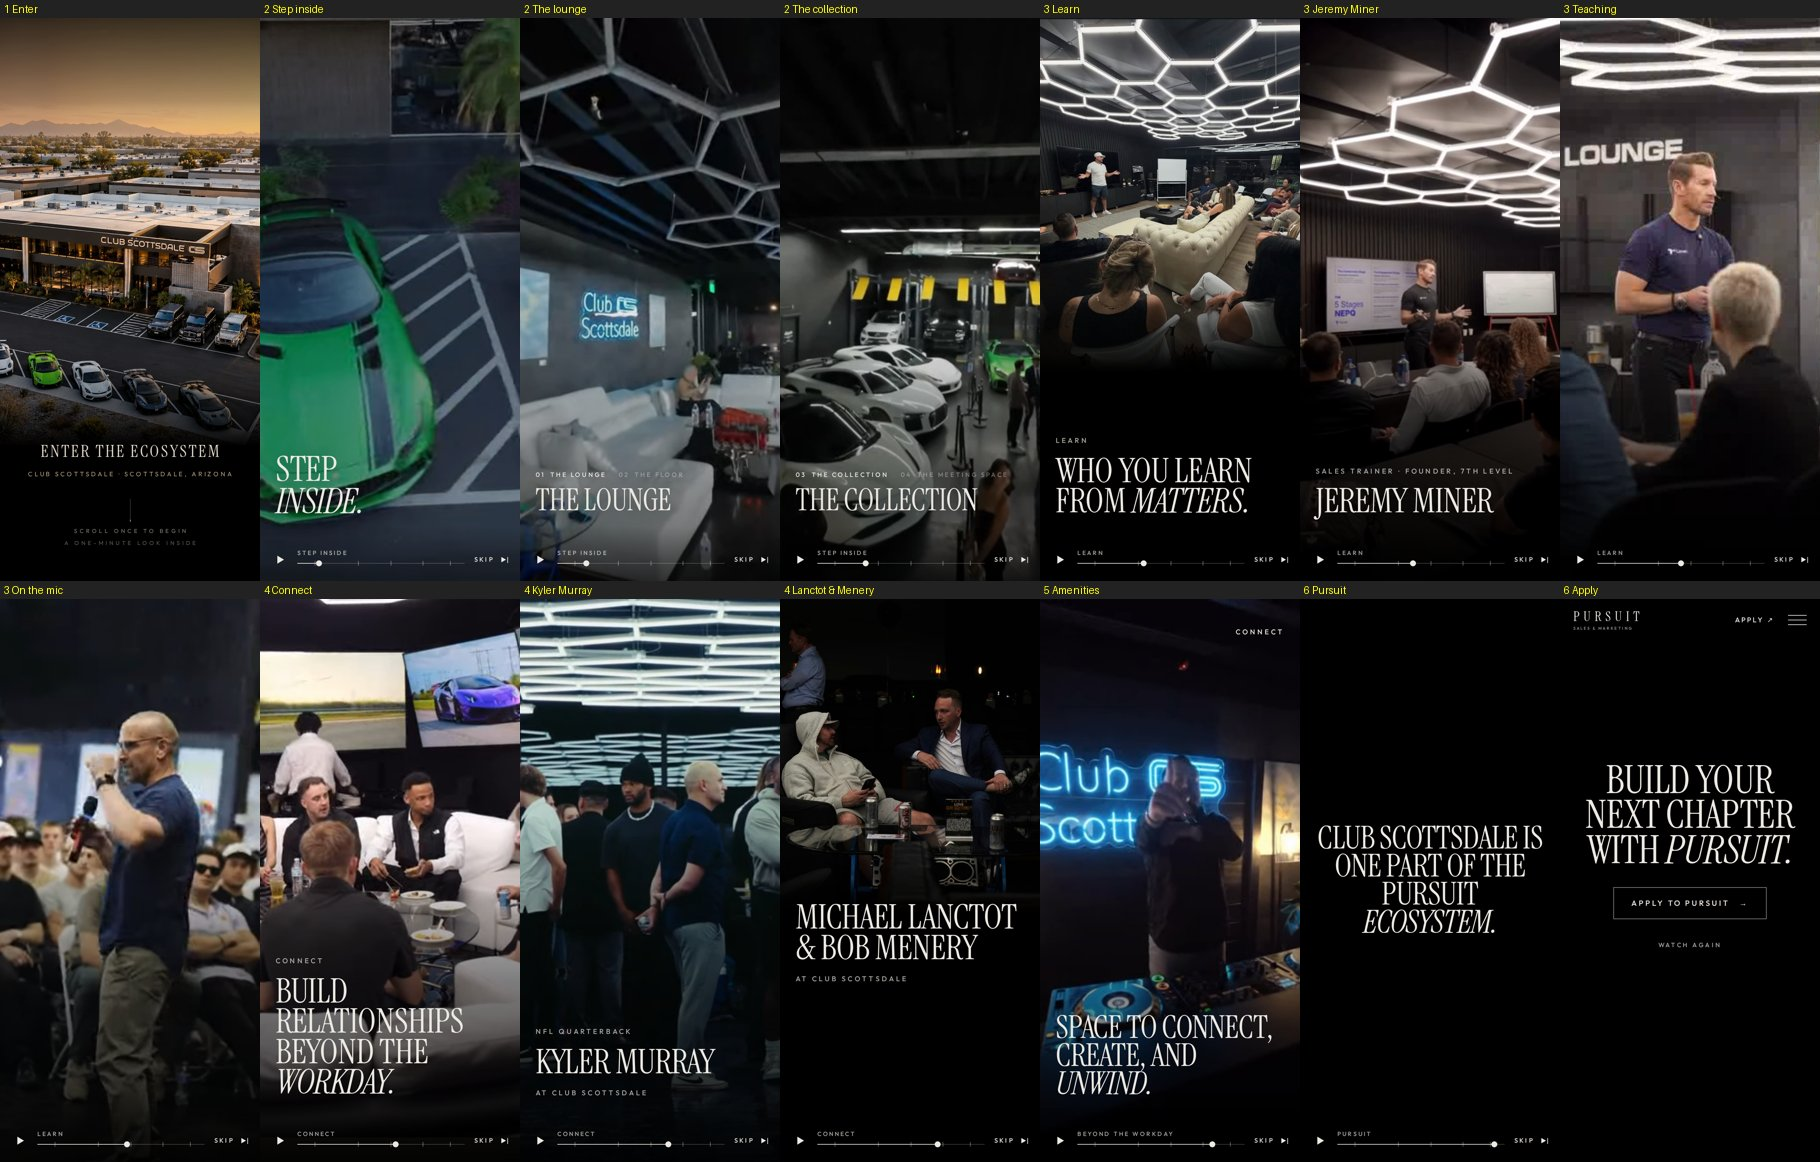
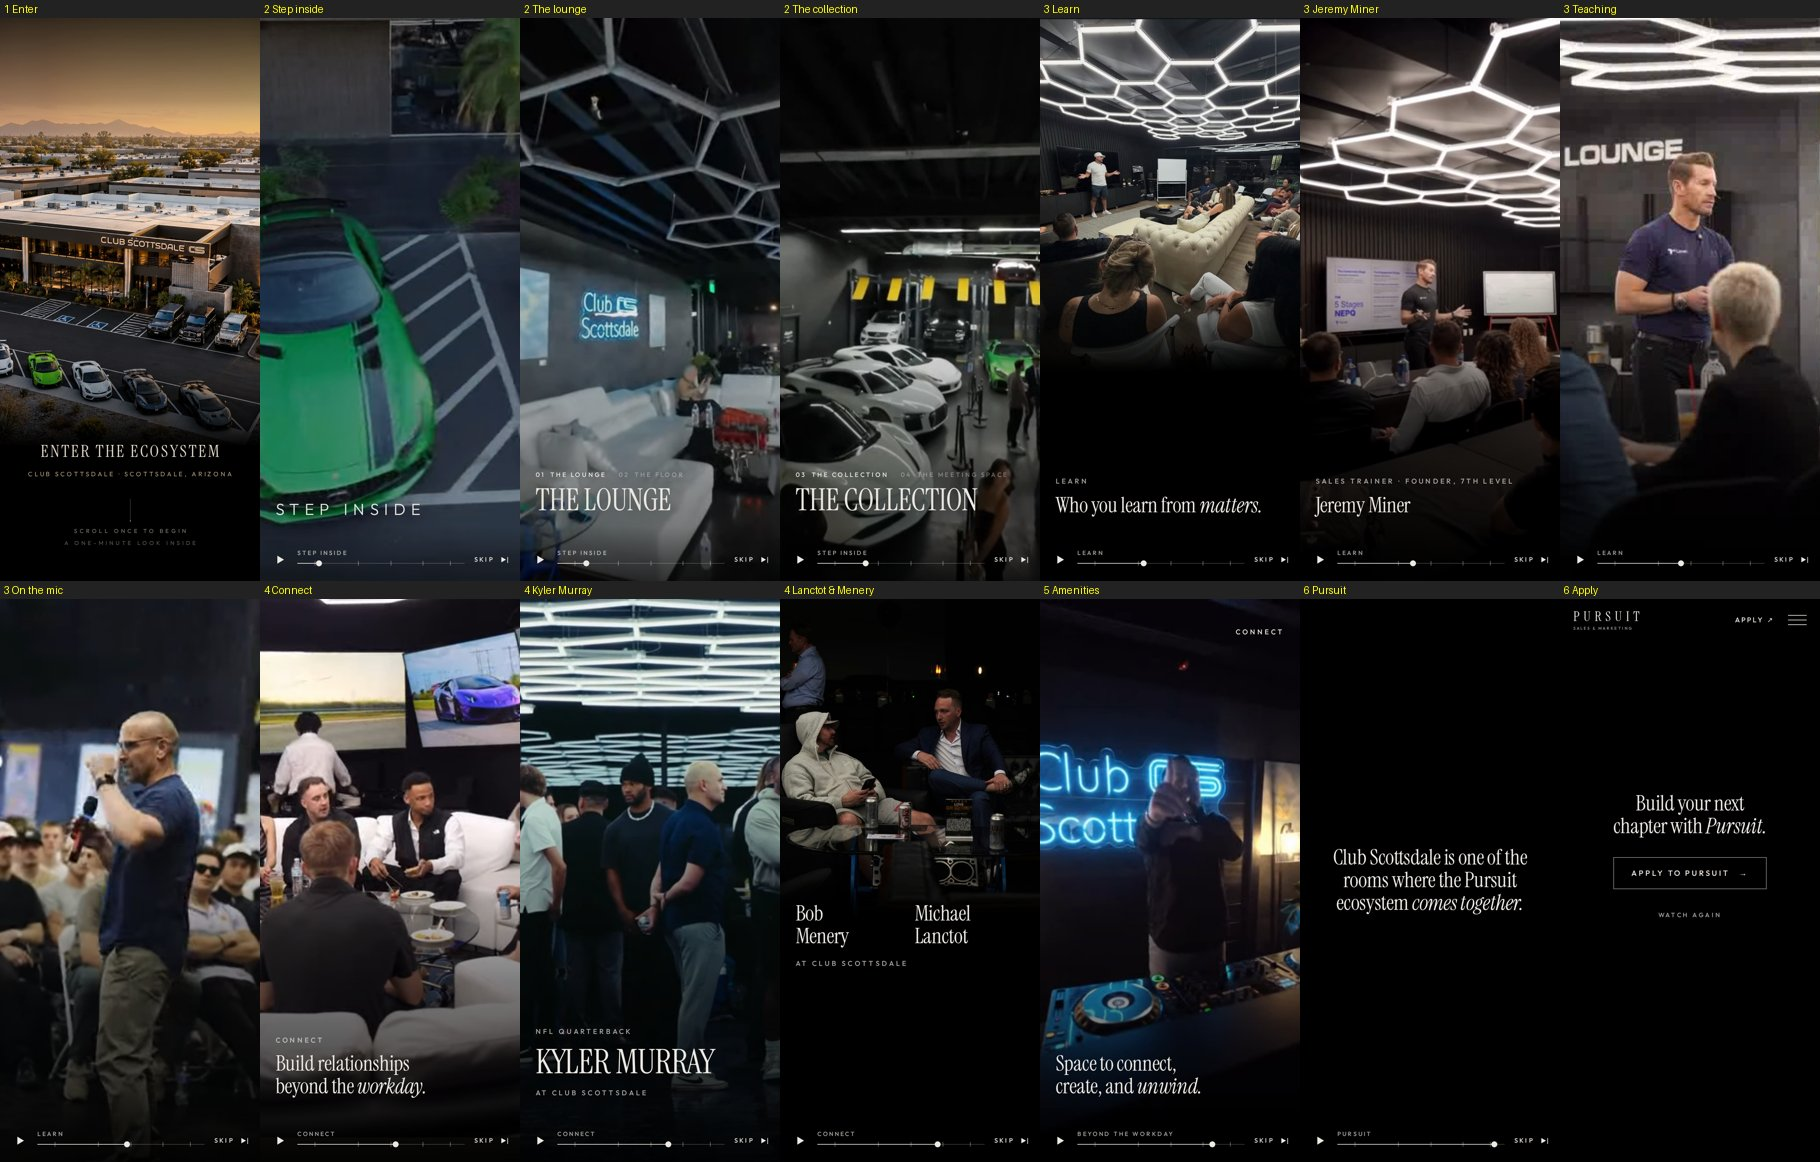
Sleeker, smaller statements; new Step inside type; names under faces; smoother Pursuit line
- One quieter setting (serif, sentence case, 28-40 px) shared by Learn, Jeremy Miner,
  Connect, the Lanctot/Menery names, the amenities line, the Pursuit line and the CTA
- Kyler Murray keeps the big uppercase serif
- Step inside: light open-tracked sans
- Bob Menery and Michael Lanctot named separately under their own faces
- Pursuit line: "Club Scottsdale is one of the rooms where the Pursuit ecosystem comes together."

Claude-Session: https://claude.ai/code/session_01HUigfUu1baqw4cH7zCL7Rn

diff --git a/index.html b/index.html
@@ -43,7 +43,7 @@
         <p class="display rooms__now" id="s-now"></p>
       </div>
     </div>
-    <h2 class="display s-step" id="s-step"><span class="line">Step</span><span class="line"><em>inside.</em></span></h2>
+    <h2 class="s-step" id="s-step">Step inside</h2>
 
     <!-- 3 · Learn and 4 · Connect: one run of page turns. Phones: full screen (photos sit
          across the top at full width). Desktop: a portrait panel, the words beside it. -->
@@ -61,11 +61,11 @@
       <div class="item m win" id="i-candid" data-clip="p-candid" data-op="62% 45%"></div>
     </div>
     <div class="scrim scrim--people" id="q-scrim"></div>
-    <div class="p-head" id="q-learn"><p class="micro">Learn</p><h2 class="display">Who you learn from <em>matters.</em></h2></div>
-    <div class="p-head" id="n-jeremy"><p class="micro">Sales trainer · Founder, 7th Level</p><h3 class="display">Jeremy Miner</h3></div>
-    <div class="p-head" id="q-connect"><p class="micro">Connect</p><h2 class="display">Build relationships beyond the <em>workday.</em></h2></div>
+    <div class="p-head" id="q-learn"><p class="micro">Learn</p><h2 class="display sleek">Who you learn from <em>matters.</em></h2></div>
+    <div class="p-head" id="n-jeremy"><p class="micro">Sales trainer · Founder, 7th Level</p><h3 class="display sleek">Jeremy Miner</h3></div>
+    <div class="p-head" id="q-connect"><p class="micro">Connect</p><h2 class="display sleek">Build relationships beyond the <em>workday.</em></h2></div>
     <div class="p-head" id="n-kyler"><p class="micro">NFL quarterback</p><h3 class="display">Kyler Murray</h3><p class="micro">At Club Scottsdale</p></div>
-    <div class="p-head" id="n-lanctot"><h3 class="display"><span class="nw">Michael Lanctot</span> <span class="nw">&amp; Bob Menery</span></h3><p class="micro">At Club Scottsdale</p></div>
+    <div class="p-head" id="n-lanctot"><div class="pair"><h3 class="display sleek pair__l">Bob<br>Menery</h3><h3 class="display sleek pair__r">Michael<br>Lanctot</h3></div><p class="micro">At Club Scottsdale</p></div>
 
     <!-- 5 · Beyond the workday: the helicopter (no words), then the amenities -->
     <div class="panel" id="s-heli">
@@ -79,14 +79,14 @@
         <p class="micro group" id="g-create">Create</p>
         <p class="micro group" id="g-unwind">Unwind</p>
       </div>
-      <h2 class="display r-line" id="r-say">Space to connect, create, and <em>unwind.</em></h2>
+      <h2 class="display sleek r-line" id="r-say">Space to connect, create, and <em>unwind.</em></h2>
     </div>
 
     <!-- 6 · Pursuit -->
     <div class="panel" id="s-point">
-      <p class="display point" id="pt-line">Club Scottsdale is one part of the Pursuit <em>ecosystem.</em></p>
+      <p class="display sleek point" id="pt-line">Club Scottsdale is one of the rooms where the Pursuit ecosystem <em>comes together.</em></p>
       <div class="cta" id="cta" tabindex="-1">
-        <h2 class="display cta__title">Build your next chapter with <em>Pursuit.</em></h2>
+        <h2 class="display sleek cta__title">Build your next chapter with <em>Pursuit.</em></h2>
         <a class="cta__btn" href="#apply">Apply to Pursuit <span aria-hidden="true">→</span></a>
         <button type="button" class="cta__replay" id="replay">Watch again</button>
       </div>

diff --git a/css/club.css b/css/club.css
@@ -411,3 +411,34 @@ body.is-ended .ctl { opacity: 0; visibility: hidden; }
   .item--photo .still { height: min(calc(100vw * var(--k)), 76%); }
   #n-lanctot { top: calc(min(100vw * 1.228, 76%) - 24px); }
 }
+
+/* ================================================================ revision: sleeker statements
+   Kyler Murray keeps the big uppercase serif; every other statement and name shares one
+   quieter setting: the same serif in sentence case, smaller, with normal leading. */
+.display.sleek { text-transform: none; font-size: clamp(28px, 8.2cqw, 40px); line-height: 1.06; letter-spacing: -0.005em; text-wrap: balance; }
+.display.sleek em { letter-spacing: -0.01em; }
+html.wide .display.sleek { font-size: clamp(34px, 3cqw, 52px); }
+.p-head:has(.sleek) { gap: 12px; }
+
+/* Step inside: a light, open-tracked sans line instead of the display serif */
+.s-step { font: 300 clamp(20px, 6.2cqw, 30px)/1 var(--sans); letter-spacing: 0.34em; text-transform: uppercase; color: var(--pearl); margin: 0; }
+html.wide .s-step { font-size: clamp(24px, 2.2cqw, 36px); }
+
+/* Michael Lanctot and Bob Menery: each name under their own face (Bob left, Michael right) */
+#n-lanctot { gap: 14px; }
+#n-lanctot .pair { position: relative; height: 2.2em; font-size: clamp(28px, 8.2cqw, 40px); }
+#n-lanctot .pair__l, #n-lanctot .pair__r { position: absolute; top: 0; }
+#n-lanctot .pair__l { left: 0; }
+#n-lanctot .pair__r { left: 52%; }
+html.wide #i-lanctot { bottom: auto; height: 68%; }
+html.wide #n-lanctot { left: auto; right: 9%; top: calc(7% + 68% + 20px); bottom: auto; width: calc(68cqh * 1320 / 1621); max-width: none; }
+html.wide #n-lanctot .pair { font-size: clamp(30px, 2.4cqw, 40px); }
+html.wide #n-lanctot .display.sleek { font-size: inherit; }
+
+@supports not (width: 1cqw) {
+  .display.sleek, #n-lanctot .pair { font-size: clamp(28px, 8.2vw, 40px); }
+  html.wide .display.sleek { font-size: clamp(34px, 3vw, 52px); }
+  .s-step { font-size: clamp(20px, 6.2vw, 30px); }
+  html.wide #n-lanctot { width: calc(68vh * 1320 / 1621); }
+}
+html.wide .point { left: 50%; right: auto; width: min(16em, 80%); transform: translate(-50%, -50%); }

diff --git a/README.md b/README.md
@@ -29,22 +29,21 @@ the connection to Pursuit, apply. People are named from the client's identificat
 | | Chapter | Media | On screen |
 |---|---|---|---|
 | 1 | Enter | Cover still, drone | *Enter the ecosystem.* / CLUB SCOTTSDALE · SCOTTSDALE, ARIZONA / *Scroll once to begin.* / *A one-minute look inside.* The first scroll, tap or key starts the film; the cover cuts to black and the drone descends and flies over the cars. |
-| 2 | Step inside | FPV flight (the pass over the cars at 1.25×) | *STEP INSIDE.* over the threshold, then the room names in large serif, one at a time, with the numbered list of rooms beside them previewing what comes next: 01 THE LOUNGE, 02 THE FLOOR, 03 THE COLLECTION, 04 THE MEETING SPACE. |
+| 2 | Step inside | FPV flight (the pass over the cars at 1.25×) | STEP INSIDE (light, open-tracked sans) over the threshold, then the room names in large serif, one at a time, with the numbered list of rooms beside them previewing what comes next: 01 THE LOUNGE, 02 THE FLOOR, 03 THE COLLECTION, 04 THE MEETING SPACE. |
 | 3 | Learn | Session photo, Jeremy Miner clip, a presenter teaching in the lounge room, a speaker on the mic, applause | *Who you learn from matters.* (over the photo) · **Jeremy Miner** / Sales trainer · Founder, 7th Level (over his clip, ~3.3 s) · two more teaching moments, wordless · the audience. |
-| 4 | Connect | Table, dinner, room, Kyler Murray clip, Lanctot & Menery photo, conversation | *Build relationships beyond the workday.* · **Kyler Murray** / NFL quarterback / AT CLUB SCOTTSDALE (clip, ~3.4 s) · **Michael Lanctot & Bob Menery** / AT CLUB SCOTTSDALE (photo, 3 s). |
+| 4 | Connect | Table, dinner, room, Kyler Murray clip, Lanctot & Menery photo, conversation | *Build relationships beyond the workday.* · **Kyler Murray** / NFL quarterback / AT CLUB SCOTTSDALE (clip, ~3.4 s) · **Bob Menery** and **Michael Lanctot**, each name under their own face / AT CLUB SCOTTSDALE (photo, 3 s). |
 | 5 | Beyond the workday | Helicopter still, 9 amenity shots | The helicopter, wordless. Then *Space to connect, create, and unwind.* with a small label naming each group as it plays: CONNECT (DJ, card room, lounge), CREATE (podcast), UNWIND (sim racing, pickleball, barber, terrace). |
-| 6 | Pursuit | — | *Club Scottsdale is one part of the Pursuit ecosystem.* Then *Build your next chapter with Pursuit.* / **Apply to Pursuit** / Watch again. The film controls retire. |
+| 6 | Pursuit | — | *Club Scottsdale is one of the rooms where the Pursuit ecosystem comes together.* Then *Build your next chapter with Pursuit.* / **Apply to Pursuit** / Watch again. The film controls retire. |
 
 ## Typography
 
-The prototype's original type, carrying the new words.
-
 | Role | Face | Phone | Desktop |
 |---|---|---|---|
-| Titles, statements, names, room names | Instrument Serif 400, uppercase, line height 0.9, the key word in italic | 34–64 px (room names and *Step inside.* larger, up to 13.5 % of the width) | up to 150 px |
+| Statements and names (Learn, Jeremy Miner, Connect, Bob Menery / Michael Lanctot, the amenities line, the Pursuit line, the closing title) | Instrument Serif 400, sentence case, the key word in italic, line height 1.06; all one size | 28–40 px | 34–52 px |
+| Kyler Murray, the room names | Instrument Serif 400, uppercase, line height 0.9 | up to 13 % of the width | up to 132 px |
+| Step inside | Outfit 300, uppercase, 0.34 em tracking | 20–30 px | 24–36 px |
 | Cover title | Instrument Serif 400, uppercase, open tracking, one line | 22–29 px | 30–52 px |
 | Labels (role, context, room list, group, chapter) | Outfit, uppercase, 0.3 em tracking | 9.5–10.5 px | same |
-| Apply | Outfit, uppercase, in an outlined button | 10.5 px | same |
 
 Every phrase enters and leaves whole, and a new phrase arrives only after the previous
 one has fully gone (audited every 50 ms: no two ever overlap). Room names change letter
